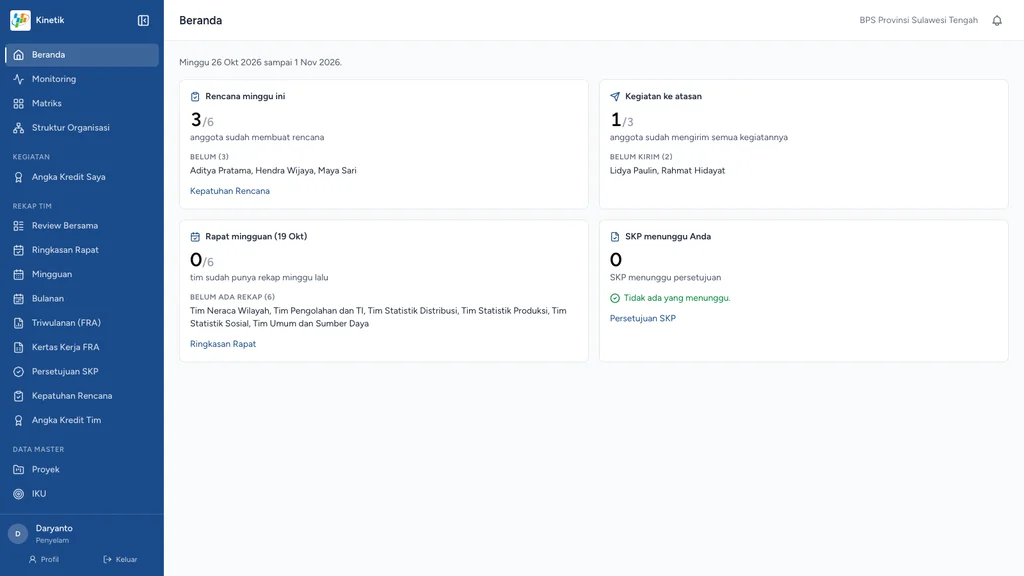
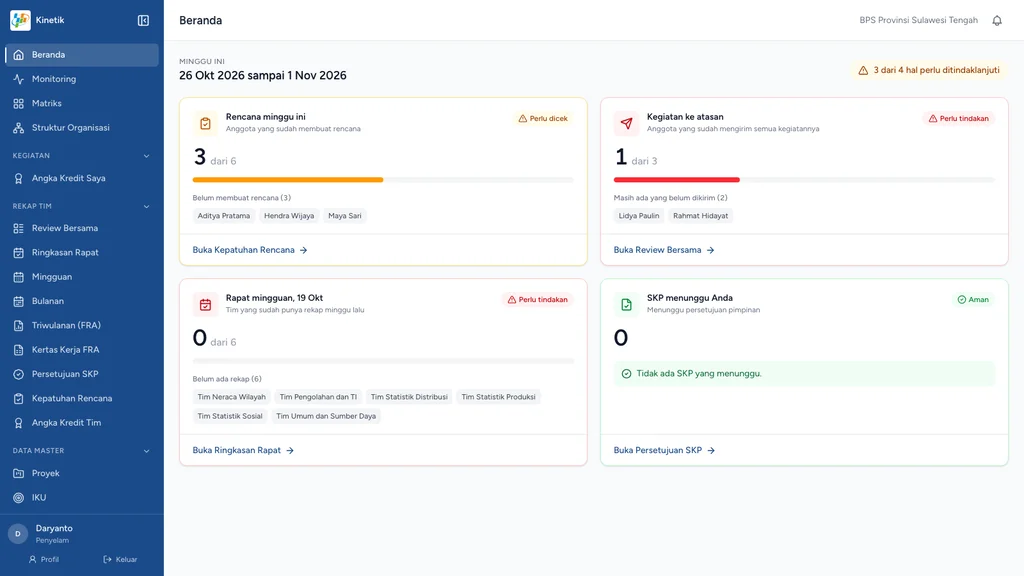
feat(ui): redesigned head Beranda cards, collapsible sidebar groups

diff --git a/resources/js/Pages/HeadHome.vue b/resources/js/Pages/HeadHome.vue
@@ -1,10 +1,12 @@
 <script setup lang="ts">
 import AppLayout from '@/Layouts/AppLayout.vue';
-import { Head, Link } from '@inertiajs/vue3';
-import { CalendarCheck, CircleCheck, ClipboardCheck, FileCheck, Send } from 'lucide-vue-next';
+import HeadHomeCard from '@/Components/Kinetik/HeadHomeCard.vue';
+import { Head } from '@inertiajs/vue3';
+import { computed } from 'vue';
+import { CalendarCheck, CircleCheck, ClipboardCheck, FileCheck, Send, TriangleAlert } from 'lucide-vue-next';
 import { useDateFormat } from '@/composables/useDateFormat';
 
-defineProps<{
+const props = defineProps<{
     week: { start: string; end: string };
     plans: { total: number; filled: number; missing: string[] };
     sent: { total: number; sent: number; pending: string[] };
@@ -13,6 +15,9 @@ defineProps<{
 }>();
 
 const { formatDate } = useDateFormat();
+
+const skpItems = computed(() => props.skp.rows.map((r) => `${r.employee}, ${r.label}`));
+const open = computed(() => [props.plans.missing, props.sent.pending, props.meetings.missing].filter((l) => l.length).length + (props.skp.count ? 1 : 0));
 </script>
 
 <template>
@@ -20,57 +25,38 @@ const { formatDate } = useDateFormat();
     <AppLayout>
         <template #title>Beranda</template>
 
-        <p class="mb-4 text-sm text-gray-600">Minggu {{ formatDate(week.start) }} sampai {{ formatDate(week.end) }}.</p>
+        <div class="mb-5 flex flex-wrap items-center justify-between gap-3">
+            <div>
+                <p class="text-xs font-medium uppercase tracking-wide text-gray-500">Minggu ini</p>
+                <p class="text-lg font-semibold text-gray-900">{{ formatDate(week.start) }} sampai {{ formatDate(week.end) }}</p>
+            </div>
+            <p :class="['inline-flex items-center gap-2 rounded-full px-3.5 py-1.5 text-sm font-medium', open ? 'bg-amber-50 text-amber-800' : 'bg-green-50 text-green-700']">
+                <component :is="open ? TriangleAlert : CircleCheck" class="h-4 w-4" aria-hidden="true" />
+                {{ open ? `${open} dari 4 hal perlu ditindaklanjuti` : 'Semua aman minggu ini' }}
+            </p>
+        </div>
 
-        <div class="grid gap-4 md:grid-cols-2">
-            <section class="rounded-lg border bg-white p-4" data-tour="head-plans">
-                <header class="flex items-center gap-2 text-sm font-semibold text-gray-800"><ClipboardCheck class="h-4 w-4 text-primary" /> Rencana minggu ini</header>
-                <p class="mt-2 text-3xl font-semibold tabular-nums">{{ plans.filled }}<span class="text-lg text-gray-400">/{{ plans.total }}</span></p>
-                <p class="text-sm text-gray-600">anggota sudah membuat rencana</p>
-                <p v-if="!plans.missing.length" class="mt-3 flex items-center gap-1.5 text-sm text-green-700"><CircleCheck class="h-4 w-4" /> Semua sudah membuat rencana.</p>
-                <template v-else>
-                    <p class="mt-3 text-xs font-semibold uppercase tracking-wide text-gray-500">Belum ({{ plans.missing.length }})</p>
-                    <p class="mt-1 text-sm text-gray-800">{{ plans.missing.join(', ') }}</p>
-                </template>
-                <Link :href="route('plan-compliance.index')" class="mt-3 inline-block text-sm text-primary hover:underline">Kepatuhan Rencana</Link>
-            </section>
-
-            <section class="rounded-lg border bg-white p-4" data-tour="head-sent">
-                <header class="flex items-center gap-2 text-sm font-semibold text-gray-800"><Send class="h-4 w-4 text-primary" /> Kegiatan ke atasan</header>
-                <p class="mt-2 text-3xl font-semibold tabular-nums">{{ sent.sent }}<span class="text-lg text-gray-400">/{{ sent.total }}</span></p>
-                <p class="text-sm text-gray-600">anggota sudah mengirim semua kegiatannya</p>
-                <p v-if="!sent.pending.length" class="mt-3 flex items-center gap-1.5 text-sm text-green-700"><CircleCheck class="h-4 w-4" /> Tidak ada yang tertunda.</p>
-                <template v-else>
-                    <p class="mt-3 text-xs font-semibold uppercase tracking-wide text-gray-500">Belum kirim ({{ sent.pending.length }})</p>
-                    <p class="mt-1 text-sm text-gray-800">{{ sent.pending.join(', ') }}</p>
-                </template>
-            </section>
-
-            <section class="rounded-lg border bg-white p-4" data-tour="head-meetings">
-                <header class="flex items-center gap-2 text-sm font-semibold text-gray-800"><CalendarCheck class="h-4 w-4 text-primary" /> Rapat mingguan ({{ meetings.week_label }})</header>
-                <p class="mt-2 text-3xl font-semibold tabular-nums">{{ meetings.total - meetings.missing.length }}<span class="text-lg text-gray-400">/{{ meetings.total }}</span></p>
-                <p class="text-sm text-gray-600">tim sudah punya rekap minggu lalu</p>
-                <p v-if="!meetings.missing.length" class="mt-3 flex items-center gap-1.5 text-sm text-green-700"><CircleCheck class="h-4 w-4" /> Semua tim sudah merekap.</p>
-                <template v-else>
-                    <p class="mt-3 text-xs font-semibold uppercase tracking-wide text-gray-500">Belum ada rekap ({{ meetings.missing.length }})</p>
-                    <p class="mt-1 text-sm text-gray-800">{{ meetings.missing.join(', ') }}</p>
-                </template>
-                <Link :href="route('team-recap.meetings')" class="mt-3 inline-block text-sm text-primary hover:underline">Ringkasan Rapat</Link>
-            </section>
-
-            <section class="rounded-lg border bg-white p-4" data-tour="head-skp">
-                <header class="flex items-center gap-2 text-sm font-semibold text-gray-800"><FileCheck class="h-4 w-4 text-primary" /> SKP menunggu Anda</header>
-                <p class="mt-2 text-3xl font-semibold tabular-nums">{{ skp.count }}</p>
-                <p class="text-sm text-gray-600">SKP menunggu persetujuan</p>
-                <p v-if="!skp.count" class="mt-3 flex items-center gap-1.5 text-sm text-green-700"><CircleCheck class="h-4 w-4" /> Tidak ada yang menunggu.</p>
-                <ul v-else class="mt-3 divide-y text-sm">
-                    <li v-for="(r, i) in skp.rows" :key="i" class="flex justify-between gap-2 py-1.5">
-                        <span class="truncate text-gray-800">{{ r.employee }}</span>
-                        <span class="shrink-0 text-gray-500">{{ r.label }}</span>
-                    </li>
-                </ul>
-                <Link :href="route('skp.approvals')" class="mt-3 inline-block text-sm text-primary hover:underline">Persetujuan SKP</Link>
-            </section>
+        <div class="grid gap-5 lg:grid-cols-2">
+            <HeadHomeCard
+                :icon="ClipboardCheck" title="Rencana minggu ini" caption="Anggota yang sudah membuat rencana"
+                :value="plans.filled" :total="plans.total" :items="plans.missing" items-label="Belum membuat rencana"
+                ok-text="Semua anggota sudah membuat rencana." :href="route('plan-compliance.index')" href-label="Buka Kepatuhan Rencana"
+            />
+            <HeadHomeCard
+                :icon="Send" title="Kegiatan ke atasan" caption="Anggota yang sudah mengirim semua kegiatannya"
+                :value="sent.sent" :total="sent.total" :items="sent.pending" items-label="Masih ada yang belum dikirim"
+                ok-text="Tidak ada kegiatan yang tertunda." :href="route('team-recap.overview')" href-label="Buka Review Bersama"
+            />
+            <HeadHomeCard
+                :icon="CalendarCheck" :title="`Rapat mingguan, ${meetings.week_label}`" caption="Tim yang sudah punya rekap minggu lalu"
+                :value="meetings.total - meetings.missing.length" :total="meetings.total" :items="meetings.missing" items-label="Belum ada rekap"
+                ok-text="Semua tim sudah merekap." :href="route('team-recap.meetings')" href-label="Buka Ringkasan Rapat"
+            />
+            <HeadHomeCard
+                :icon="FileCheck" title="SKP menunggu Anda" caption="Menunggu persetujuan pimpinan"
+                :value="skp.count" :items="skpItems" items-label="Pegawai dan jenis SKP"
+                ok-text="Tidak ada SKP yang menunggu." :href="route('skp.approvals')" href-label="Buka Persetujuan SKP"
+            />
         </div>
     </AppLayout>
 </template>

diff --git a/resources/js/Components/Kinetik/HeadHomeCard.vue b/resources/js/Components/Kinetik/HeadHomeCard.vue
@@ -1,0 +1,85 @@
+<script setup lang="ts">
+import { computed, ref, type Component } from 'vue';
+import { Link } from '@inertiajs/vue3';
+import { ArrowRight, CircleCheck, TriangleAlert } from 'lucide-vue-next';
+
+const props = defineProps<{
+    icon: Component;
+    title: string;
+    caption: string;
+    value: number;
+    total?: number;
+    /** Names (or short rows) that still need a follow-up. Empty means all clear. */
+    items: string[];
+    itemsLabel: string;
+    okText: string;
+    href: string;
+    hrefLabel: string;
+}>();
+
+const LIMIT = 8;
+const expanded = ref(false);
+const shown = computed(() => (expanded.value ? props.items : props.items.slice(0, LIMIT)));
+const hidden = computed(() => props.items.length - LIMIT);
+
+const ratio = computed(() => (props.total ? props.value / props.total : props.items.length ? 0 : 1));
+const tone = computed(() => (!props.items.length ? 'ok' : props.total && ratio.value >= 0.5 ? 'warn' : props.total ? 'bad' : 'warn'));
+
+const TONES = {
+    ok: { ring: 'border-green-200', chip: 'bg-green-50 text-green-700', bar: 'bg-green-500', icon: 'bg-green-50 text-green-700', label: 'Aman' },
+    warn: { ring: 'border-amber-200', chip: 'bg-amber-50 text-amber-800', bar: 'bg-amber-500', icon: 'bg-amber-50 text-amber-700', label: 'Perlu dicek' },
+    bad: { ring: 'border-red-200', chip: 'bg-red-50 text-red-700', bar: 'bg-red-500', icon: 'bg-red-50 text-red-700', label: 'Perlu tindakan' },
+} as const;
+const t = computed(() => TONES[tone.value]);
+</script>
+
+<template>
+    <section :class="['flex flex-col rounded-xl border bg-white shadow-sm', t.ring]">
+        <header class="flex items-start gap-3 p-5 pb-3">
+            <span :class="['flex h-10 w-10 shrink-0 items-center justify-center rounded-lg', t.icon]">
+                <component :is="icon" class="h-5 w-5" aria-hidden="true" />
+            </span>
+            <div class="min-w-0 flex-1">
+                <h2 class="text-sm font-semibold text-gray-900">{{ title }}</h2>
+                <p class="text-xs text-gray-500">{{ caption }}</p>
+            </div>
+            <span :class="['inline-flex shrink-0 items-center gap-1 rounded-full px-2.5 py-1 text-xs font-medium', t.chip]">
+                <component :is="tone === 'ok' ? CircleCheck : TriangleAlert" class="h-3.5 w-3.5" aria-hidden="true" />
+                {{ t.label }}
+            </span>
+        </header>
+
+        <div class="px-5">
+            <p class="flex items-baseline gap-1.5">
+                <span class="text-4xl font-semibold tabular-nums tracking-tight text-gray-900">{{ value }}</span>
+                <span v-if="total !== undefined" class="text-base font-medium text-gray-400 tabular-nums">dari {{ total }}</span>
+            </p>
+            <div v-if="total" class="mt-3 h-2 overflow-hidden rounded-full bg-gray-100" role="progressbar" :aria-valuenow="value" aria-valuemin="0" :aria-valuemax="total">
+                <div :class="['h-full rounded-full transition-all', t.bar]" :style="{ width: `${Math.round(ratio * 100)}%` }" />
+            </div>
+        </div>
+
+        <div class="flex-1 px-5 pb-4 pt-4">
+            <p v-if="!items.length" class="flex items-center gap-2 rounded-lg bg-green-50 px-3 py-2.5 text-sm text-green-800">
+                <CircleCheck class="h-4 w-4 shrink-0" aria-hidden="true" /> {{ okText }}
+            </p>
+            <template v-else>
+                <p class="mb-2 text-xs font-medium text-gray-500">{{ itemsLabel }} <span class="tabular-nums">({{ items.length }})</span></p>
+                <ul class="flex flex-wrap gap-1.5">
+                    <li v-for="(name, i) in shown" :key="i" class="max-w-full truncate rounded-md bg-gray-100 px-2 py-1 text-xs text-gray-700">{{ name }}</li>
+                    <li v-if="!expanded && hidden > 0">
+                        <button type="button" class="rounded-md border border-dashed border-gray-300 px-2 py-1 text-xs text-gray-600 hover:bg-gray-50 focus-visible:outline-none focus-visible:ring-2 focus-visible:ring-primary" @click="expanded = true">
+                            +{{ hidden }} lainnya
+                        </button>
+                    </li>
+                </ul>
+            </template>
+        </div>
+
+        <footer class="border-t px-5 py-3">
+            <Link :href="href" class="inline-flex items-center gap-1.5 text-sm font-medium text-primary hover:underline focus-visible:outline-none focus-visible:ring-2 focus-visible:ring-primary">
+                {{ hrefLabel }} <ArrowRight class="h-4 w-4" aria-hidden="true" />
+            </Link>
+        </footer>
+    </section>
+</template>

diff --git a/resources/js/Layouts/AppLayout.vue b/resources/js/Layouts/AppLayout.vue
@@ -1,8 +1,8 @@
 <script setup lang="ts">
 import { Link, router, usePage } from '@inertiajs/vue3';
-import { computed, onMounted, onUnmounted, ref, type Component } from 'vue';
+import { computed, onMounted, onUnmounted, ref, watch, type Component } from 'vue';
 import {
-    Activity, Award, BadgeCheck, BookOpen, CalendarCheck, CalendarDays, CalendarRange, ClipboardCheck, Eye, FileCheck, FileChartColumn, FileSpreadsheet, FolderKanban,
+    Activity, Award, ChevronDown, BadgeCheck, BookOpen, CalendarCheck, CalendarDays, CalendarRange, ClipboardCheck, Eye, FileCheck, FileChartColumn, FileSpreadsheet, FolderKanban,
     CircleHelp, House, LayoutGrid, LayoutList, ListChecks, ListTodo, LogOut, Menu, Network, PanelLeftClose, PanelLeftOpen, Target, ToggleRight, UserRound, Users, X, Zap,
 } from 'lucide-vue-next';
 import { useSidebarStore } from '@/stores/sidebar';
@@ -96,6 +96,21 @@ const navSections = computed<NavSection[]>(() => {
         .map(section => ({ ...section, items: section.items.filter(item => item.show) }))
         .filter(section => section.items.length);
 });
+
+// Sidebar groups fold open and shut; the choice is remembered per browser. A group holding the current page stays open.
+const COLLAPSED_KEY = 'kinetik.nav.collapsed';
+const collapsed = ref<string[]>(JSON.parse(localStorage.getItem(COLLAPSED_KEY) ?? '[]'));
+const isOpen = (section: NavSection) => !section.title || !collapsed.value.includes(section.title);
+function toggleSection(section: NavSection) {
+    if (!section.title) return;
+    collapsed.value = isOpen(section) ? [...collapsed.value, section.title] : collapsed.value.filter(t => t !== section.title);
+    localStorage.setItem(COLLAPSED_KEY, JSON.stringify(collapsed.value));
+}
+
+watch(() => page.url, () => {
+    const active = navSections.value.filter(s => s.title && s.items.some(i => i.active)).map(s => s.title);
+    if (collapsed.value.some(t => active.includes(t))) collapsed.value = collapsed.value.filter(t => !active.includes(t));
+}, { immediate: true });
 
 // Labels are visible when the desktop sidebar is expanded, and always in the mobile drawer.
 const showLabels = computed(() => sidebar.isOpen || sidebar.mobileOpen);
@@ -252,15 +267,19 @@ onUnmounted(() => {
 
             <!-- Nav links -->
             <nav class="flex-1 overflow-y-auto px-2 pb-4">
-                <div v-for="(section, index) in navSections" :key="section.title ?? 'main'" :class="index > 0 ? 'mt-5' : 'mt-1'">
-                    <p
+                <div v-for="(section, index) in navSections" :key="section.title ?? 'main'" :class="index > 0 ? 'mt-3' : 'mt-1'">
+                    <button
                         v-if="section.title && showLabels"
-                        class="mb-1 px-3 text-[11px] font-semibold uppercase tracking-wider text-white/55"
+                        type="button"
+                        class="flex w-full items-center justify-between rounded-md px-3 py-1.5 text-[11px] font-semibold uppercase tracking-wider text-white/60 transition-colors hover:bg-white/10 hover:text-white focus-visible:outline-none focus-visible:ring-2 focus-visible:ring-white/70"
+                        :aria-expanded="isOpen(section)"
+                        @click="toggleSection(section)"
                     >
                         {{ section.title }}
-                    </p>
+                        <ChevronDown :class="['h-3.5 w-3.5 transition-transform', isOpen(section) ? '' : '-rotate-90']" aria-hidden="true" />
+                    </button>
                     <div v-else-if="section.title" class="mx-3 mb-2 border-t border-white/15" aria-hidden="true" />
-                    <div class="space-y-0.5">
+                    <div v-show="!section.title || !showLabels || isOpen(section)" class="mt-0.5 space-y-0.5">
                         <Link
                             v-for="item in section.items"
                             :key="item.href"
